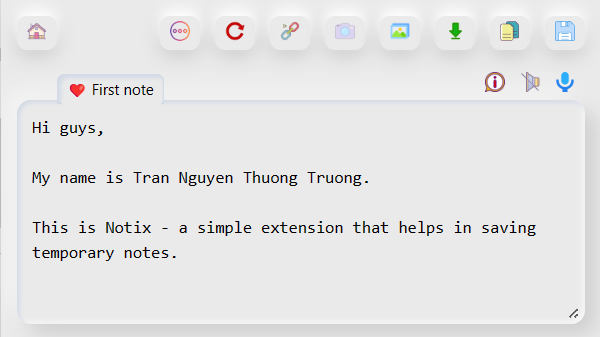
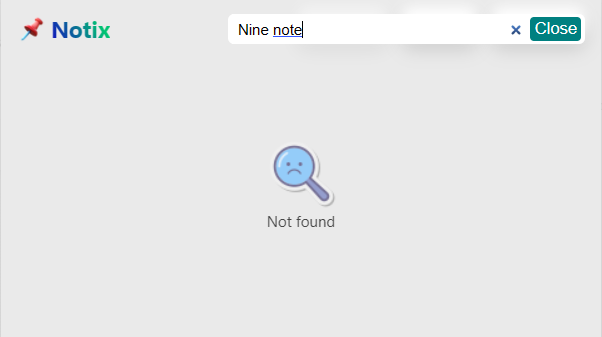
feat: search nots by name

diff --git a/popup.js b/popup.js
@@ -13,11 +13,18 @@ let logo = document.getElementById("logo"),
     listPanel = document.querySelector("#list_panel"),
     notePanel = document.querySelector("#note_panel"),
     notePanelHeader = document.querySelector(".note_head_panel"),
+    searchPanel = document.querySelector("#search_panel"),
+    emptyImage = document.querySelector("#list_panel .empty_img"),
+    notFoundImage = document.querySelector("#list_panel .not_found_img"),
+    newAreaLine = document.querySelector("#list_panel .empty_img #new_area_line"),
 
     list = document.querySelector('#list_panel > ul'),
     listItem = document.querySelector('#list_panel > ul > li'),
     deleteBtn = document.querySelector('#list_header > #delete_btn'),
     newBtn = document.querySelector('#list_header > #new_btn'),
+    searchBtn = document.querySelector('#list_header > #search_btn'),
+    searchInput = document.querySelector('#list_header > #search_panel > #search_input'),
+    searchCloseBtn = document.querySelector('#list_header > #search_panel > #search_close_btn'),
 
     noteInput = document.getElementById("note"),
     settingsBtn = document.getElementById('settings_btn'),
@@ -101,6 +108,21 @@ const dynamicImport = async (path) => {
     let removesList = [];
 
     const dispatchNotesList = () => dispatchNotes(notesList);
+
+    const listApperanceStyle = () => {
+        if (notesList.length > 0) {
+            emptyImage.classList.remove(OBJ_KEYS.ACTIVE_CLASS);
+            list.classList.remove("inactive");
+            deleteBtn.style.display = "flex";
+            searchBtn.style.display = "flex";
+        } 
+        else {
+            emptyImage.classList.add(OBJ_KEYS.ACTIVE_CLASS);
+            list.classList.add("inactive");
+            deleteBtn.style.display = "none";
+            searchBtn.style.display = "none";
+        }
+    }
 
     const deleteSelectedNotes = () => {
         removesList.length > 0 ? deleteBtn.classList.remove('disabled') : deleteBtn.classList.add('disabled');
@@ -227,25 +249,29 @@ const dynamicImport = async (path) => {
             deleteSelectedNotes();
         };
 
+        listApperanceStyle();
+
         return newItem;
     }
 
-    const loadNotesList = () => {
+    const loadNotesList = async () => {
         list.innerHTML = "";
-        loadNotes((data)=> {
+        await loadNotes((data)=> {
             if (data.items) {
                 for (let item of data.items) {
                     list.appendChild(createNewNote(item.id, item.title));
                 }
                 notesList = data.items;
                 total.innerText = notesList.length;
+
             }
+            listApperanceStyle();
         });
     }
-
+    
     loadNotesList();
 
-    newBtn.onclick = () => {
+    const createNew = () => {
         let newData = {
             id: Date.now(),
             title: `New note ${Date.now()}`,
@@ -257,7 +283,45 @@ const dynamicImport = async (path) => {
         dispatchNotesList();
     
         list.appendChild(createNewNote(newData.id, newData.title));
+    }
+
+    newBtn.onclick = () => {
+        createNew();
     };
+
+    newAreaLine.onclick = () => {
+        createNew();
+    };
+
+    searchBtn.onclick = () => {
+        searchPanel.classList.add(OBJ_KEYS.ACTIVE_CLASS);
+        searchInput.focus();
+
+        searchCloseBtn.onclick = () => {
+            searchInput.value = "";
+            searchPanel.classList.remove(OBJ_KEYS.ACTIVE_CLASS);
+            loadNotesList();
+            notFoundImage.classList.remove(OBJ_KEYS.ACTIVE_CLASS);
+        };
+
+        searchInput.oninput = () => {
+            let searchValue = searchInput.value.toLowerCase();
+            let searchList = notesList.filter((item) => item.title.toLowerCase().includes(searchValue));
+            list.innerHTML = "";
+
+            for (let item of searchList) {
+                list.appendChild(createNewNote(item.id, item.title));
+            }
+
+            if(searchList.length === 0) {
+                notFoundImage.classList.add(OBJ_KEYS.ACTIVE_CLASS);
+                list.classList.add("inactive");
+            } else {
+                notFoundImage.classList.remove(OBJ_KEYS.ACTIVE_CLASS);
+                list.classList.remove("inactive");
+            }
+        }
+    }
 
 // **************** note tab ****************
 
@@ -345,7 +409,7 @@ const dynamicImport = async (path) => {
 
     autoSave();
 
-    noteInput.addEventListener('input', async () => {
+    noteInput.oninput = async () => {
         await autoSave();
         if(isAutoSave) {
             setTimeout(() => {
@@ -354,7 +418,7 @@ const dynamicImport = async (path) => {
         } else {
             return false;
         }
-    });
+    };
     
     clearBtn.onclick = () => {
         chrome.storage.sync.remove(OBJ_KEYS.CURRENT_DATA, () => {

diff --git a/styles/components/header.css b/styles/components/header.css
@@ -14,7 +14,7 @@ header .disabled {
 
 header > nav,
 header #list_header h3,
-header #list_header button {
+header #list_header > button {
     display: flex;
     align-items: center;
     font-weight: 400;
@@ -42,7 +42,7 @@ header #list_header > button,
 header #home:hover,
 header #note_header > li:hover,
 header #list_header > button:hover,
-#settings .settings_header button:hover {
+#settings .settings_header > button:hover {
     box-shadow: inset 0px -6px 10px white,
         inset 0px 4px 15px rgba(0, 0, 0, 0.15);
 }
@@ -64,4 +64,44 @@ main #note_control img,
 #settings .settings_header button img {
     width: 1rem;
     height: 1rem;
+}
+
+header #list_header {
+    position: relative;
+}
+header #list_header > #search_panel {
+    position: absolute;
+    top: 0;
+    right: 0;
+    width: 100%;
+    height: 100%;
+    align-items: center;
+    justify-content: space-between;
+    padding: 0 0.2rem;
+    border-radius: 0.3rem;
+    background: #fff;
+    display: none;
+}
+
+header #list_header > #search_panel.active {
+    display: flex;
+}
+
+header #list_header > #search_panel input {
+    width: 100%;
+    height: 100%;
+    border: none;
+    outline: none;
+    padding: 0.3rem;
+    font-size: 1em;
+}
+
+header #list_header > #search_panel button {
+    border: none;
+    outline: none;
+    background: teal;
+    color: white;
+    cursor: pointer;
+    padding: 0.1rem 0.2rem;
+    border-radius: 0.2rem;
 }

diff --git a/popup.html b/popup.html
@@ -37,6 +37,10 @@
                     <img src="./icons/search.svg" alt="search_icon" title="search">
                     <h5>Search</h5>
                 </button>
+                <div id="search_panel">
+                    <input id="search_input" type="search" placeholder="Search..." maxlength="50" required title="search">
+                    <button id="search_close_btn" type="button" title="close">Close</button>
+                </div>
             </div>
             <ul id="note_header">
                 <li id="settings_btn" title="settings">
@@ -68,6 +72,14 @@
 
         <section id="list_panel">
             <ul></ul>
+            <figure class="empty_img">
+                <img src="./icons/empty.png" alt="empty_icon">
+                <figcaption>Empty notes here. <span id="new_area_line">Create new now!</span></figcaption>
+            </figure>
+            <figure class="not_found_img">
+                <img src="./icons/not_found.png" alt="not_found_icon">
+                <figcaption>Not found</figcaption>
+            </figure>
         </section>
 
         <div class="note_head_panel">

diff --git a/styles/components/main.css b/styles/components/main.css
@@ -78,6 +78,10 @@ main > #list_panel > ul {
     height: fit-content !important;
 }
 
+main > #list_panel > ul.inactive {
+    display: none;
+}
+
 main > #list_panel > ul > li {
     height: fit-content;
     position: relative;
@@ -271,6 +275,36 @@ main > #list_panel > ul > li .checkbox_item:checked + label {
 
 main > #list_panel > ul > li .checkbox_item:checked + label::after {
     animation: firework 0.5s ease forwards 0.1s;
+}
+
+main #list_panel figure {
+    width: 100%;
+    height: 100%;
+    display: none;
+    flex-direction: column;
+    justify-content: center;
+    align-items: center;
+    opacity: 0.7;
+    margin: auto;
+}
+
+main #list_panel .empty_img.active,
+main #list_panel .not_found_img.active {
+    display: flex;
+}
+
+main #list_panel figure figcaption {
+    margin-top: 1rem;
+}
+
+main #list_panel figure figcaption #new_area_line {
+    color: purple;
+    cursor: pointer;
+    font-weight: 500;
+}
+
+main #list_panel figure figcaption #new_area_line:hover {
+    color: #a800ff;
 }
 
 main #note_control {

diff --git a/README.md b/README.md
@@ -9,7 +9,7 @@ $\small\textcolor{purple}{\textit{Saving temporary notes extension}}$
   <img alt="GitHub release" src="https://img.shields.io/github/v/release/thuongtruong1009/notix?color=yellow">
   <img src="https://img.shields.io/badge/manifest-v3-pink" alt="manifest_version_badge" />
   <a href="LICENSE"><img src="https://img.shields.io/github/license/thuongtruong1009/notix" alt="license_badge" /></a>
-  <!-- <a href="https://hits.dwyl.com/thuongtruong1009/notix" rel="nofollow"><img src="https://hits.dwyl.com/thuongtruong1009/notix.svg" alt="HitCount" data-canonical-src="https://hits.dwyl.com/thuongtruong1009/notix.svg" style="max-width: 100%;"></a> -->
+  <a href="https://hits.dwyl.com/thuongtruong1009/notix" rel="nofollow"><img src="https://hits.dwyl.com/thuongtruong1009/notix.svg" alt="HitCount" data-canonical-src="https://hits.dwyl.com/thuongtruong1009/notix.svg" style="max-width: 100%;"></a>
 
 </div>
 
@@ -17,6 +17,7 @@ $\small\textcolor{purple}{\textit{Saving temporary notes extension}}$
 | :----------------------------------------------------------: | :----------------------------------------------------------: |
 | <img src="public/preview1.png" alt="preview1" width="400" /> | <img src="public/preview2.png" alt="preview2" width="400" /> |
 | <img src="public/preview3.png" alt="preview3" width="400" /> | <img src="public/preview4.png" alt="preview4" width="400" /> |
+| <img src="public/preview5.png" alt="preview5" width="400" /> | <img src="public/preview6.png" alt="preview6" width="400" /> |
 |                                                              |                                                              |
 
 ## 📢 About
@@ -45,11 +46,11 @@ $\small\textcolor{purple}{\textit{Saving temporary notes extension}}$
 -   Cross-browsers compatibility (Chrome, Firefox, Edge, Opera, Brave, etc.)
 -   UI/UX friendly (transition, shadow effect, gradient color etc.)
 -   Setting options (dark mode, fonts, auto-save, auto-sync, audio-options etc.)
+-   Search notes by name
 
 ## 🎯 Todo
 
 -   [ ] Scroll to top button
--   [ ] Search notes by name
 -   [ ] Filter notes by created time, last updated time, etc.
 -   [ ] Password protection for secret notes
 -   [ ] Detect language translation of note text

diff --git a/CHANGELOG.md b/CHANGELOG.md
@@ -17,7 +17,8 @@
 -   [Display current note's information modal(name - size - total words - total lines - created - last update time of current note, etc.)](https://github.com/thuongtruong1009/notix/pull/6/commits/4da47045274e9a480dd71d465c15a5c1b9efc448)
 -   [Voice speech recognition](https://github.com/thuongtruong1009/notix/pull/6/commits/b492783b4b293257de9b5692f4cc6ad90ae3a03a)
 -   Audio reading
--   Configurable setting options (auto-save, auto-sync, audio-options)
+-   Search notes by name
+-   Configurable setting options ([auto-save, auto-sync, audio-options](https://github.com/thuongtruong1009/notix/pull/8/commits/304b029a9c30bdadedbb8085ad0e8a1c809bc7fe))
 
 ### Changed
 
